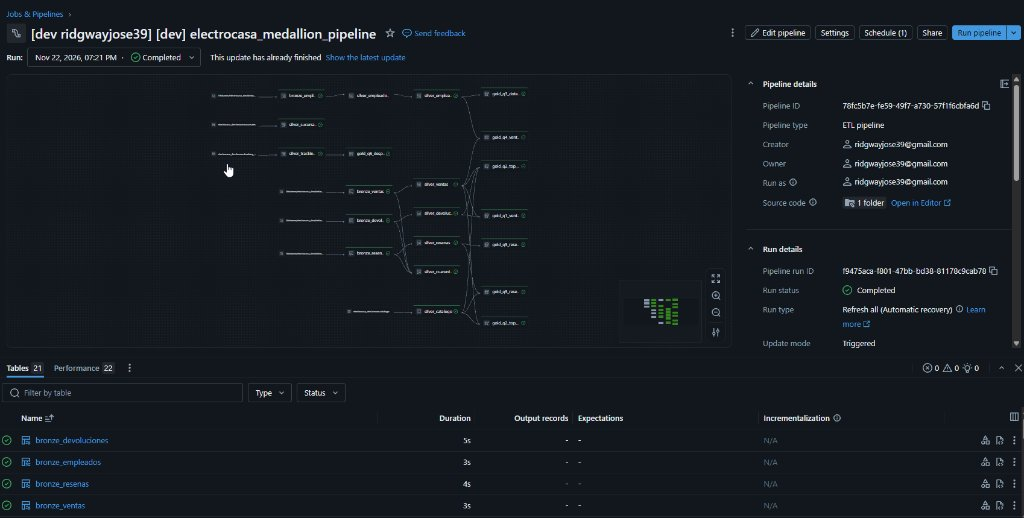
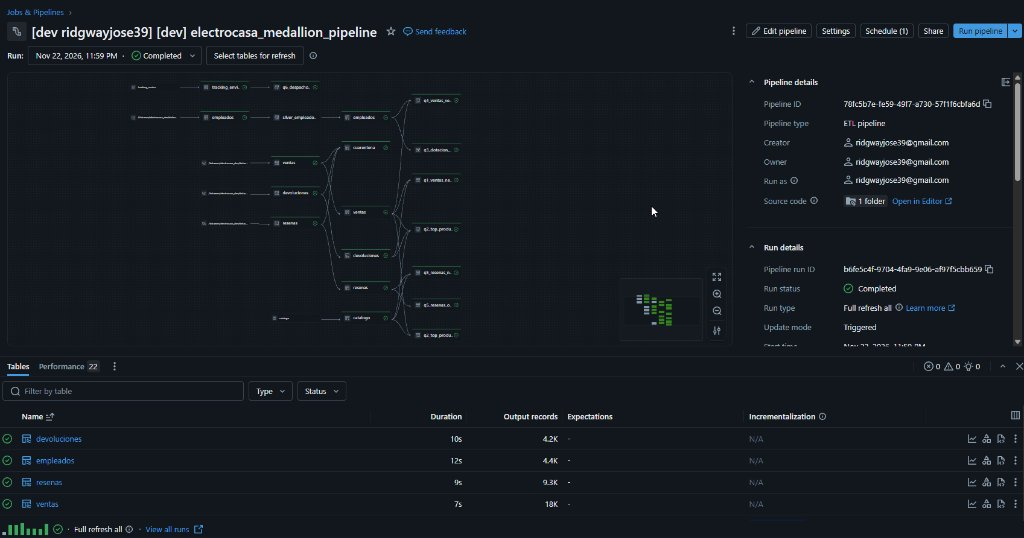
docs(evidencias): actualizar capturas oficiales de DLT multi-schema (22 tablas) y Lakeflow Job exitoso

diff --git a/README.md b/README.md
@@ -271,6 +271,9 @@ Se crearon funciones de enmascaramiento gobernadas para proteger información de
   ALTER TABLE electrocasa_dev.silver.empleados ALTER COLUMN salario SET MASK electrocasa_dev.silver.mask_salario;
   ```
 
+* **Consideración de Arquitectura sobre el Dueño del Pipeline (*Pipeline Owner*):**  
+  De acuerdo con las directrices de Unity Catalog, el refresco del pipeline ejecuta con los privilegios del propietario del recurso (`ridgwayjose39@gmail.com`). Dado que dicho usuario pertenece al grupo `electrocasa_ingenieria`, el motor de DLT procesa los datos reales de colaboradores sin aplicar el enmascaramiento durante las transformaciones intermedias. Esto asegura que los Data Marts derivados en Gold (`gold.q3_dotacion_activa_mensual` y `gold.q4_ventas_vendedor_historico`) computen rotación, dotación activa y comisiones sobre cifras íntegras, mientras que cualquier usuario externo o analista que consulte las tablas gobernadas recibe los valores enmascarados de forma segura.
+
 ---
 
 ## 5. Ingesta Incremental con Lakeflow Connect (Tracking Azure SQL)
@@ -299,15 +302,27 @@ La tabla `dbo.TrackingEnvios` reside en una base de datos externa Azure SQL Data
 *Figura 4: Orquestador Lakeflow Job con sus 3 tareas secuenciales en verde (ingesta_copy_into -> pipeline_medallion -> validacion_calidad).*
 
 ![DAG Pipeline DLT Medallion](img/03_dlt_pipeline_medallion.jpg)
-*Figura 5: Grafo acíclico dirigido (DAG) de Lakeflow Spark Declarative Pipelines completado con sus 21 tablas en verde.*
+*Figura 5: Grafo acíclico dirigido (DAG) de Lakeflow Spark Declarative Pipelines completado con sus 22 tablas en verde.*
 
 ![Monitoreo Jobs y Pipelines](img/05_jobs_and_pipelines_overview.png)
 *Figura 6: Vista general de Jobs & Pipelines de Databricks con ejecuciones recientes exitosas.*
 
 ### 6.1. Evolución de Conteos por Lote (Lote 1 $\rightarrow$ Lote 2 $\rightarrow$ Lote 3)
-A continuación se documenta el comportamiento incremental tras cada corrida del Lakeflow Job, demostrando que no existen duplicaciones y que las reingestas fueron absorbidas limpiamente:
+A continuación se documenta el comportamiento incremental tras cada corrida del Lakeflow Job, contrastando los **registros brutos ingresados en Bronze** contra los **registros limpios conformados en Silver y aislados en Cuarentena**:
 
-| Tabla | Lote 1 (Acumulado) | Lote 2 (Acumulado) | Lote 3 (Final Total) | Observaciones de Integridad |
+#### A. Conteos de Capa Bronze (Archivos Raw Ingresados por Lote)
+| Tabla Bronze | Lote 1 (Acumulado) | Lote 2 (Acumulado) | Lote 3 (Final Total) | Formato y Detalle de Entrega |
+|---|:---:|:---:|:---:|---|
+| `bronze.ventas` | 6.783 | 13.622 | **18.240** | CSV (L1: 6.783, L2: +6.839, L3: +4.618) |
+| `bronze.devoluciones` | 1.387 | 3.091 | **4.217** | CSV (L1: 1.387, L2: +1.704, L3: +1.126) |
+| `bronze.empleados` | 2.257 | 3.524 | **4.448** | CSV (L1: 2.257, L2: +1.267, L3: +924 eventos) |
+| `bronze.catalogo` | 2.305 | 2.400 | **2.400** | JSON Snapshot (Marzo: 2.305, Agosto: 2.400) |
+| `bronze.resenas` | 5.292 | 5.292 | **9.280** | JSON Lines (L1: 5.292, L2: +3.988 en octubre) |
+| `bronze.tracking_envios` | 15.139 | 15.139 | **15.139** | Azure SQL (Carga completa en Corrida 1) |
+| `bronze.sucursales` | 40 | 40 | **40** | CSV (Maestro dimensional fijo) |
+
+#### B. Conteos de Capa Silver y Cuarentena (Datos Conformados y Descartes)
+| Tabla Silver | Lote 1 (Acumulado) | Lote 2 (Acumulado) | Lote 3 (Final Total) | Observaciones de Integridad y Deduplicación |
 |---|:---:|:---:|:---:|---|
 | `silver.ventas` | 6.588 | 13.064 | **17.488** | Deduplicadas por `venta_id`; reingestas no duplican filas. |
 | `silver.devoluciones` | 1.364 | 3.018 | **4.085** | Cruzadas y validadas contra ventas. |
@@ -317,6 +332,12 @@ A continuación se documenta el comportamiento incremental tras cada corrida del
 | `silver.tracking_envios` | 15.139 | 15.139 | **15.139** | Ingesta incremental de Azure SQL completa desde corrida 1. |
 | `silver.sucursales` | 40 | 40 | **40** | Maestro dimensional fijo de 40 tiendas. |
 | **`silver.cuarentena`** | **238** | **501** | **695** | Registros defectuosos aislados y trazables. |
+
+> **Conciliación Matemática de Calidad:**  
+> En las 3 fuentes transaccionales con cuarentena se comprueba la conservación exacta de filas:  
+> * **Ventas:** 18.240 raw en Bronze = 17.488 en Silver + 520 en Cuarentena + 232 reingestas idénticas absorbidas.  
+> * **Devoluciones:** 4.217 raw en Bronze = 4.085 en Silver + 72 en Cuarentena + 60 reingestas idénticas absorbidas.  
+> * **Reseñas:** 9.280 raw en Bronze = 9.097 en Silver + 103 en Cuarentena + 80 reingestas idénticas absorbidas.
 
 ### 6.2. Auditoría Final de Cuarentena (695 Casos Desglosados)
 | Fuente | Motivo de Rechazo | Cantidad | Acción de Protección Tomada |
